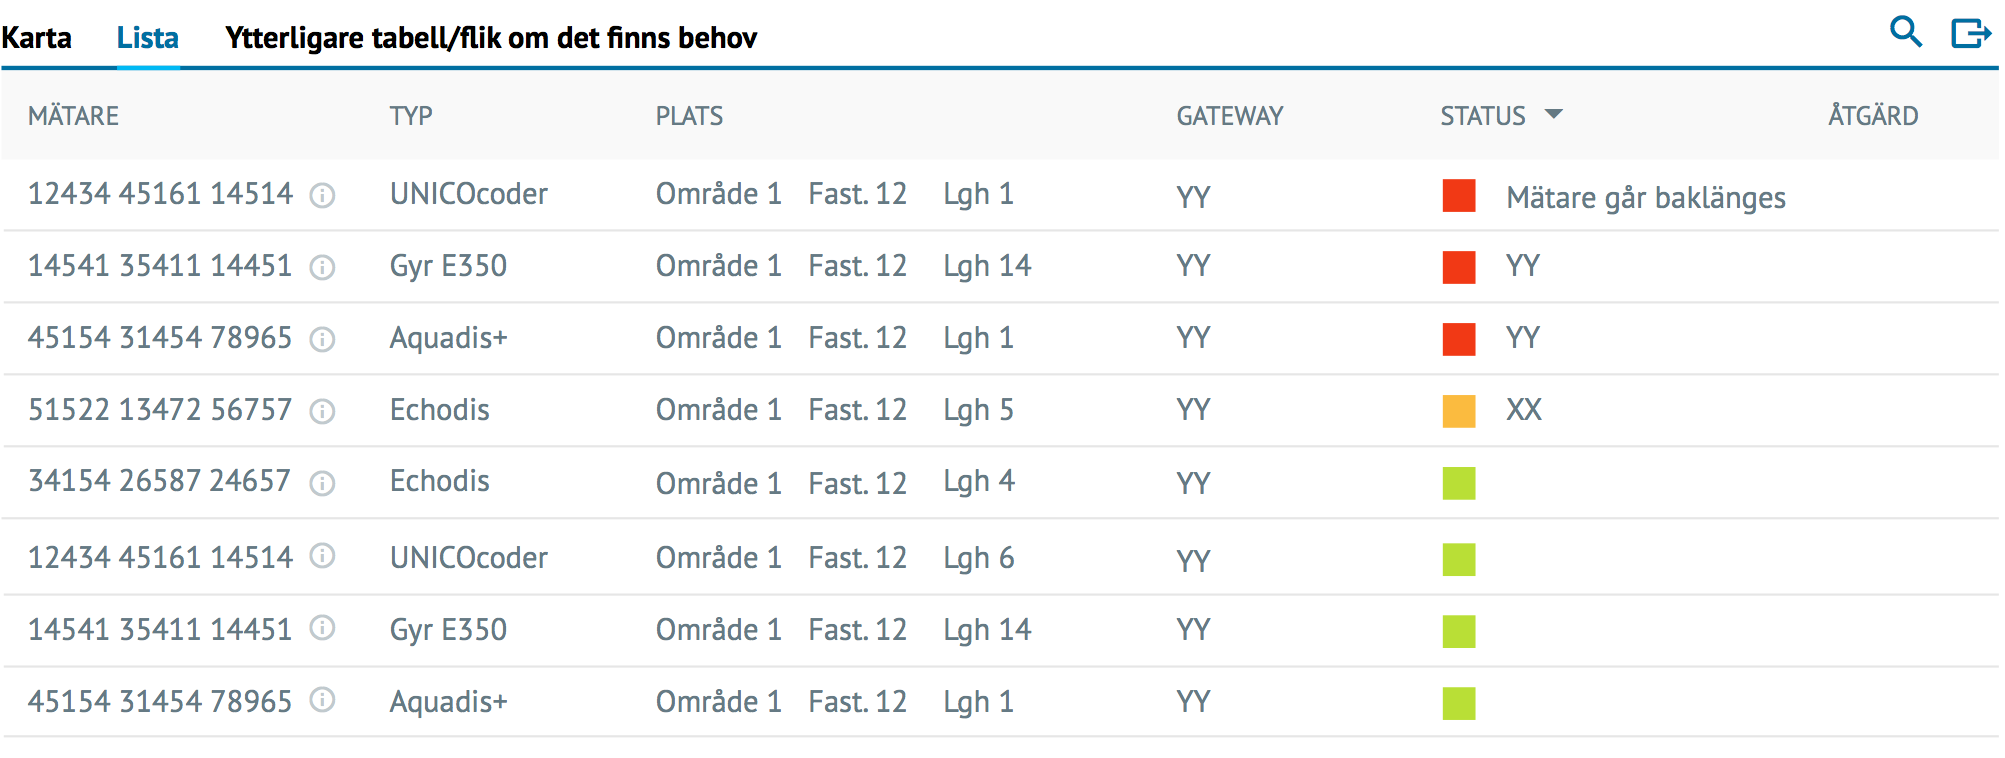
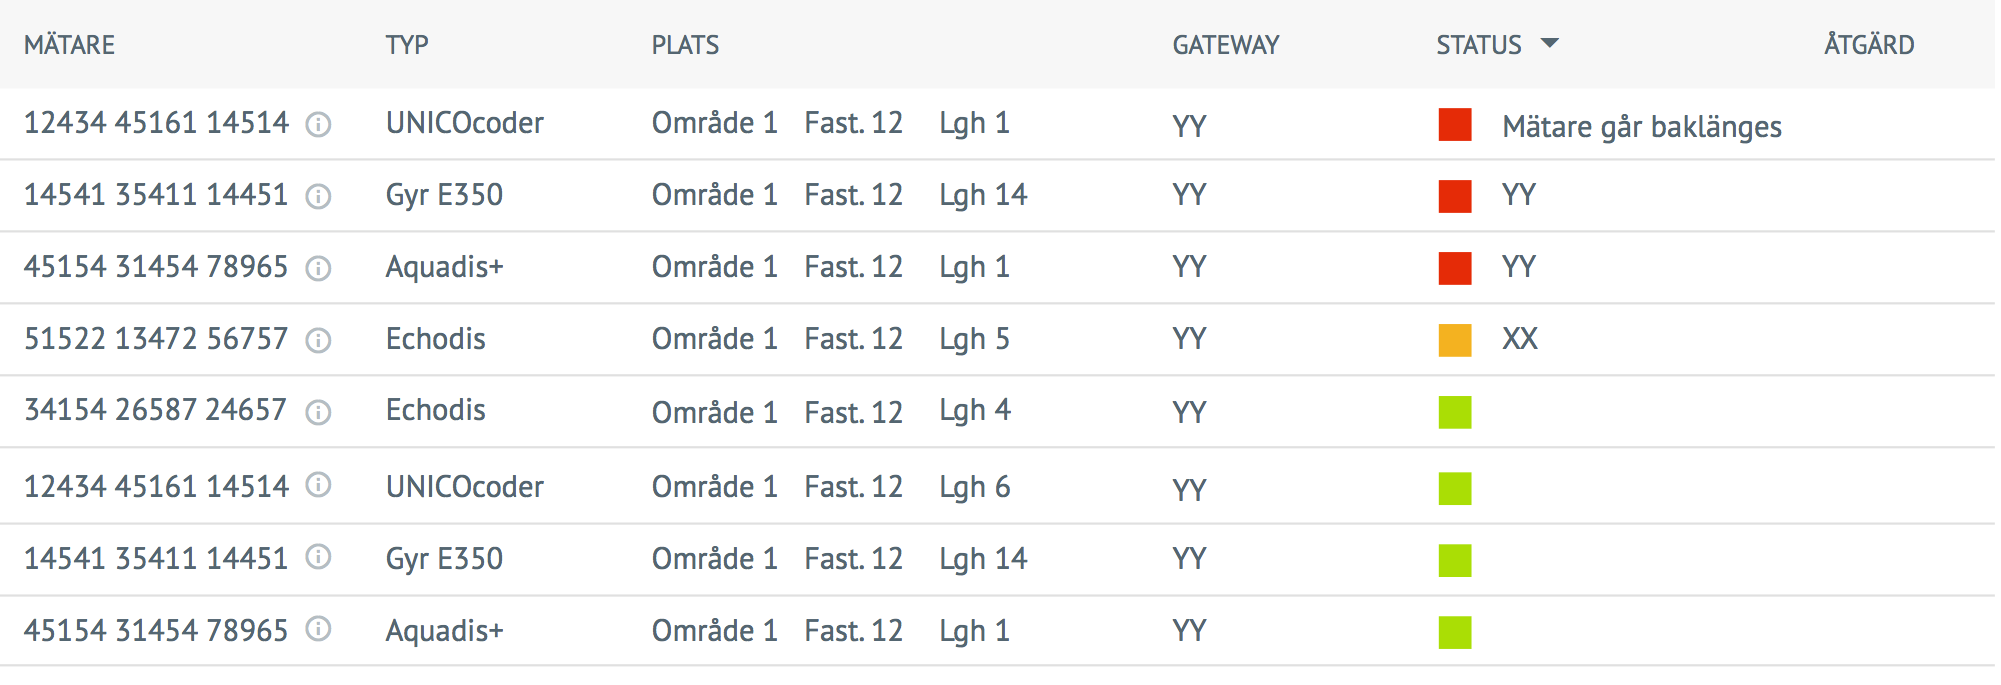
Fix images under tabs

diff --git a/frontend/src/usecases/validation/containers/ValidationTabsContainer.tsx b/frontend/src/usecases/validation/containers/ValidationTabsContainer.tsx
@@ -3,8 +3,9 @@ import {connect} from 'react-redux';
 import {bindActionCreators} from 'redux';
 import {RootState} from '../../../reducers/index';
 import {translate} from '../../../services/translationService';
+import {Image} from '../../common/components/images/Image';
 import {TabItem} from '../../tabs/components/TabItem';
-import {TabOption, TabOptionProps} from '../../tabs/components/TabOption';
+import {TabOption} from '../../tabs/components/TabOption';
 import {Tabs} from '../../tabs/components/Tabs';
 import {Tab, tabTypes} from '../../tabs/models/TabsModel';
 import {changeTab, changeTabOption} from '../../tabs/tabsActions';
@@ -35,7 +36,7 @@ const ValidationTabsContainer = (props: ValidationTabsContainerProps) => {
   return (
     <Tabs selectedTab={selectedTab}>
       <TabItem tabName={translate('map')} tab={tabTypes.map} selectedTab={selectedTab} changeTab={onChangeTab}>
-        <TabContent content={'hej hej'}>
+        <Image src="usecases/validation/img/map.png">
           <TabOption
             tab={tabTypes.map}
             select={onChangeTabOption}
@@ -57,10 +58,10 @@ const ValidationTabsContainer = (props: ValidationTabsContainerProps) => {
             option={'facility'}
             selectedOption={tabs[tabTypes.map].selectedOption}
           />
-        </TabContent>
+        </Image>
       </TabItem>
       <TabItem tabName={translate('list')} tab={tabTypes.list} selectedTab={selectedTab} changeTab={onChangeTab}>
-        <TabContent content={'Another content'}>
+        <Image src="usecases/validation/img/meters.png">
           <TabOption
             tab={tabTypes.list}
             select={onChangeTabOption}
@@ -75,24 +76,10 @@ const ValidationTabsContainer = (props: ValidationTabsContainerProps) => {
             option={'sort ascending'}
             selectedOption={tabs[tabTypes.list].selectedOption}
           />
-        </TabContent>
+        </Image>
       </TabItem>
     </Tabs>
   );
-};
-
-export interface TabContentProps {
-  content: string;
-  children: Array<React.ReactElement<TabOptionProps>>;
-  // TODO: Perhaps create a common type for typing children without using so not have to write out Array<> and
-  // React.ReactElement all the time.
-}
-
-const TabContent = (props: TabContentProps) => {
-  return (
-    <div>
-      {props.content}
-    </div>);
 };
 
 const mapStateToProps = (state: RootState) => {

diff --git a/frontend/src/usecases/tabs/components/TabItem.tsx b/frontend/src/usecases/tabs/components/TabItem.tsx
@@ -1,7 +1,6 @@
 import * as classNames from 'classnames';
 import * as React from 'react';
 import {Column} from '../../layouts/components/column/Column';
-import {TabContentProps} from '../../validation/containers/ValidationTabsContainer';
 import {TabUnderline} from './TabUnderliner';
 
 type TabIdentifier = string;
@@ -11,8 +10,8 @@ export interface TabItemProps {
   tab: TabIdentifier;
   selectedTab: TabIdentifier;
   changeTab: (tab: string) => void;
-  children: React.ReactElement<TabContentProps>;
   // TODO: Should replace any with a type that specifies either LIST, MAP or GRAPH.
+  children: React.ReactElement<any>;
 }
 
 export const TabItem = (props: TabItemProps) => {

diff --git a/frontend/src/usecases/tabs/components/Tabs.tsx b/frontend/src/usecases/tabs/components/Tabs.tsx
@@ -17,7 +17,6 @@ export const Tabs = (props: TabsProps) => {
   const SelectedTab = children.filter(child => child.props.tab === selectedTab);
   const TabContent = SelectedTab[0].props.children;
   const TabModeHeaders = TabContent.props.children;
-
   return (
     <Column className="Tabs">
       <Row className="Tabs-Row">
